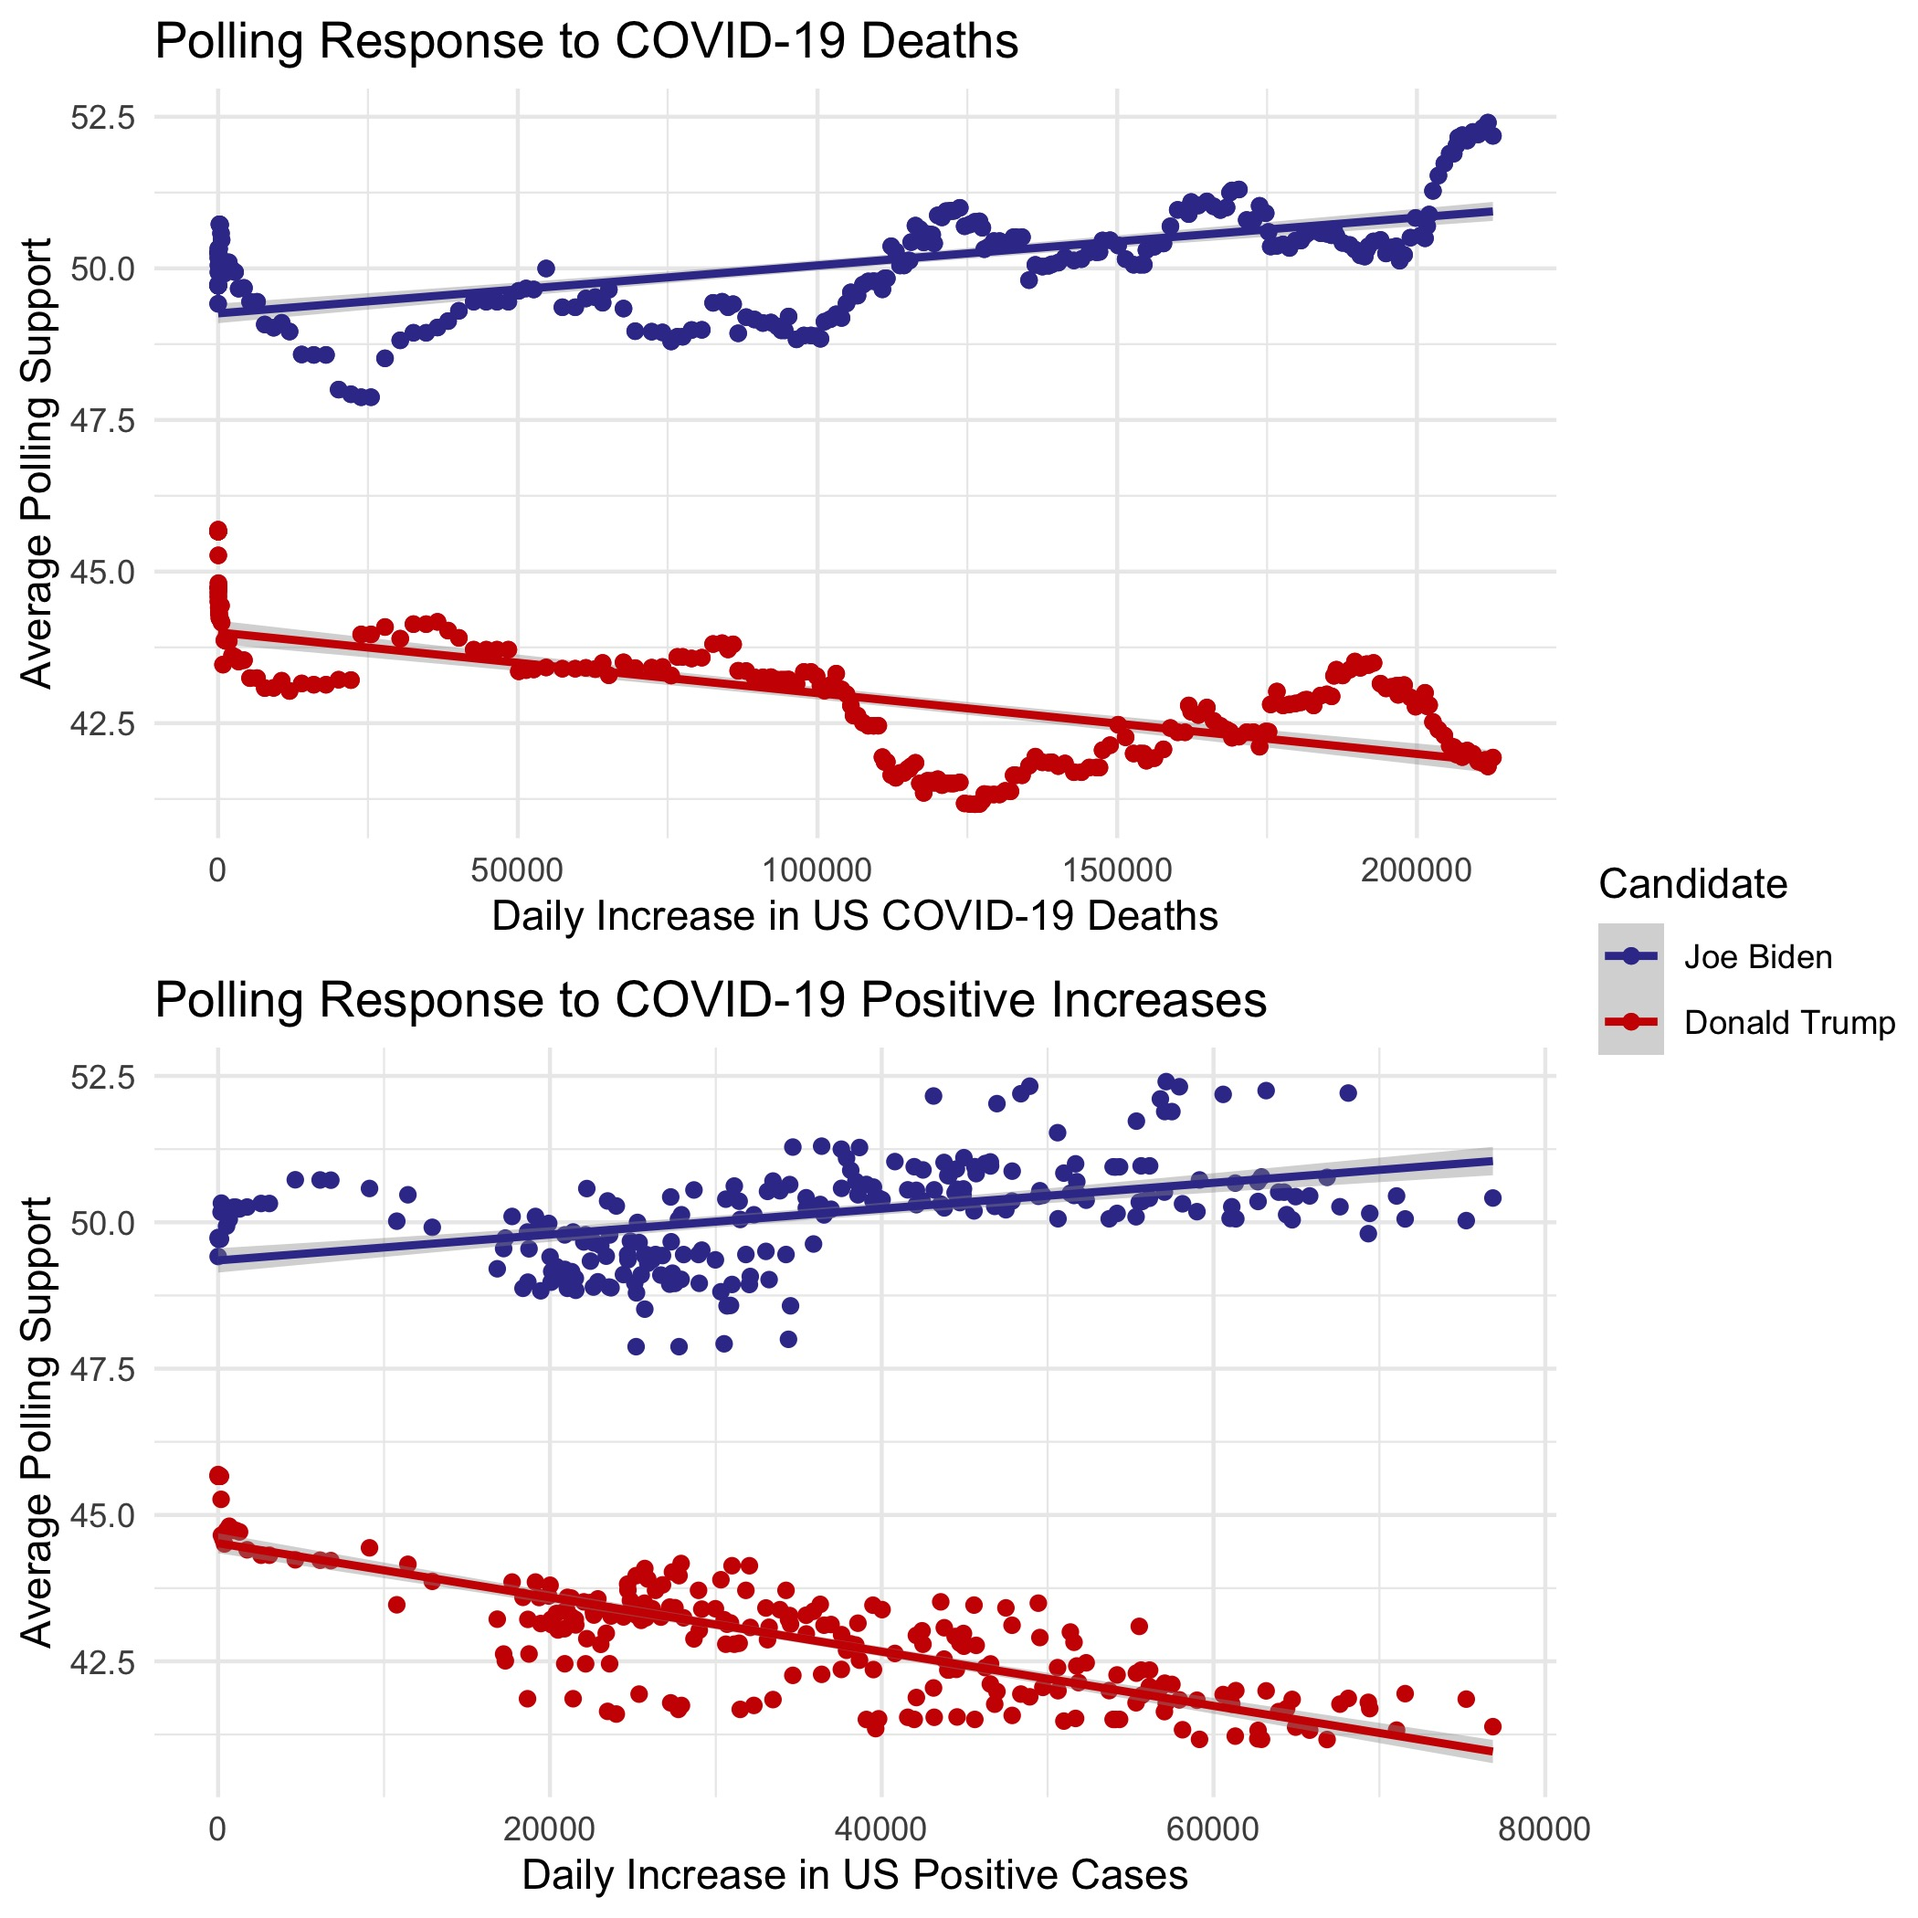
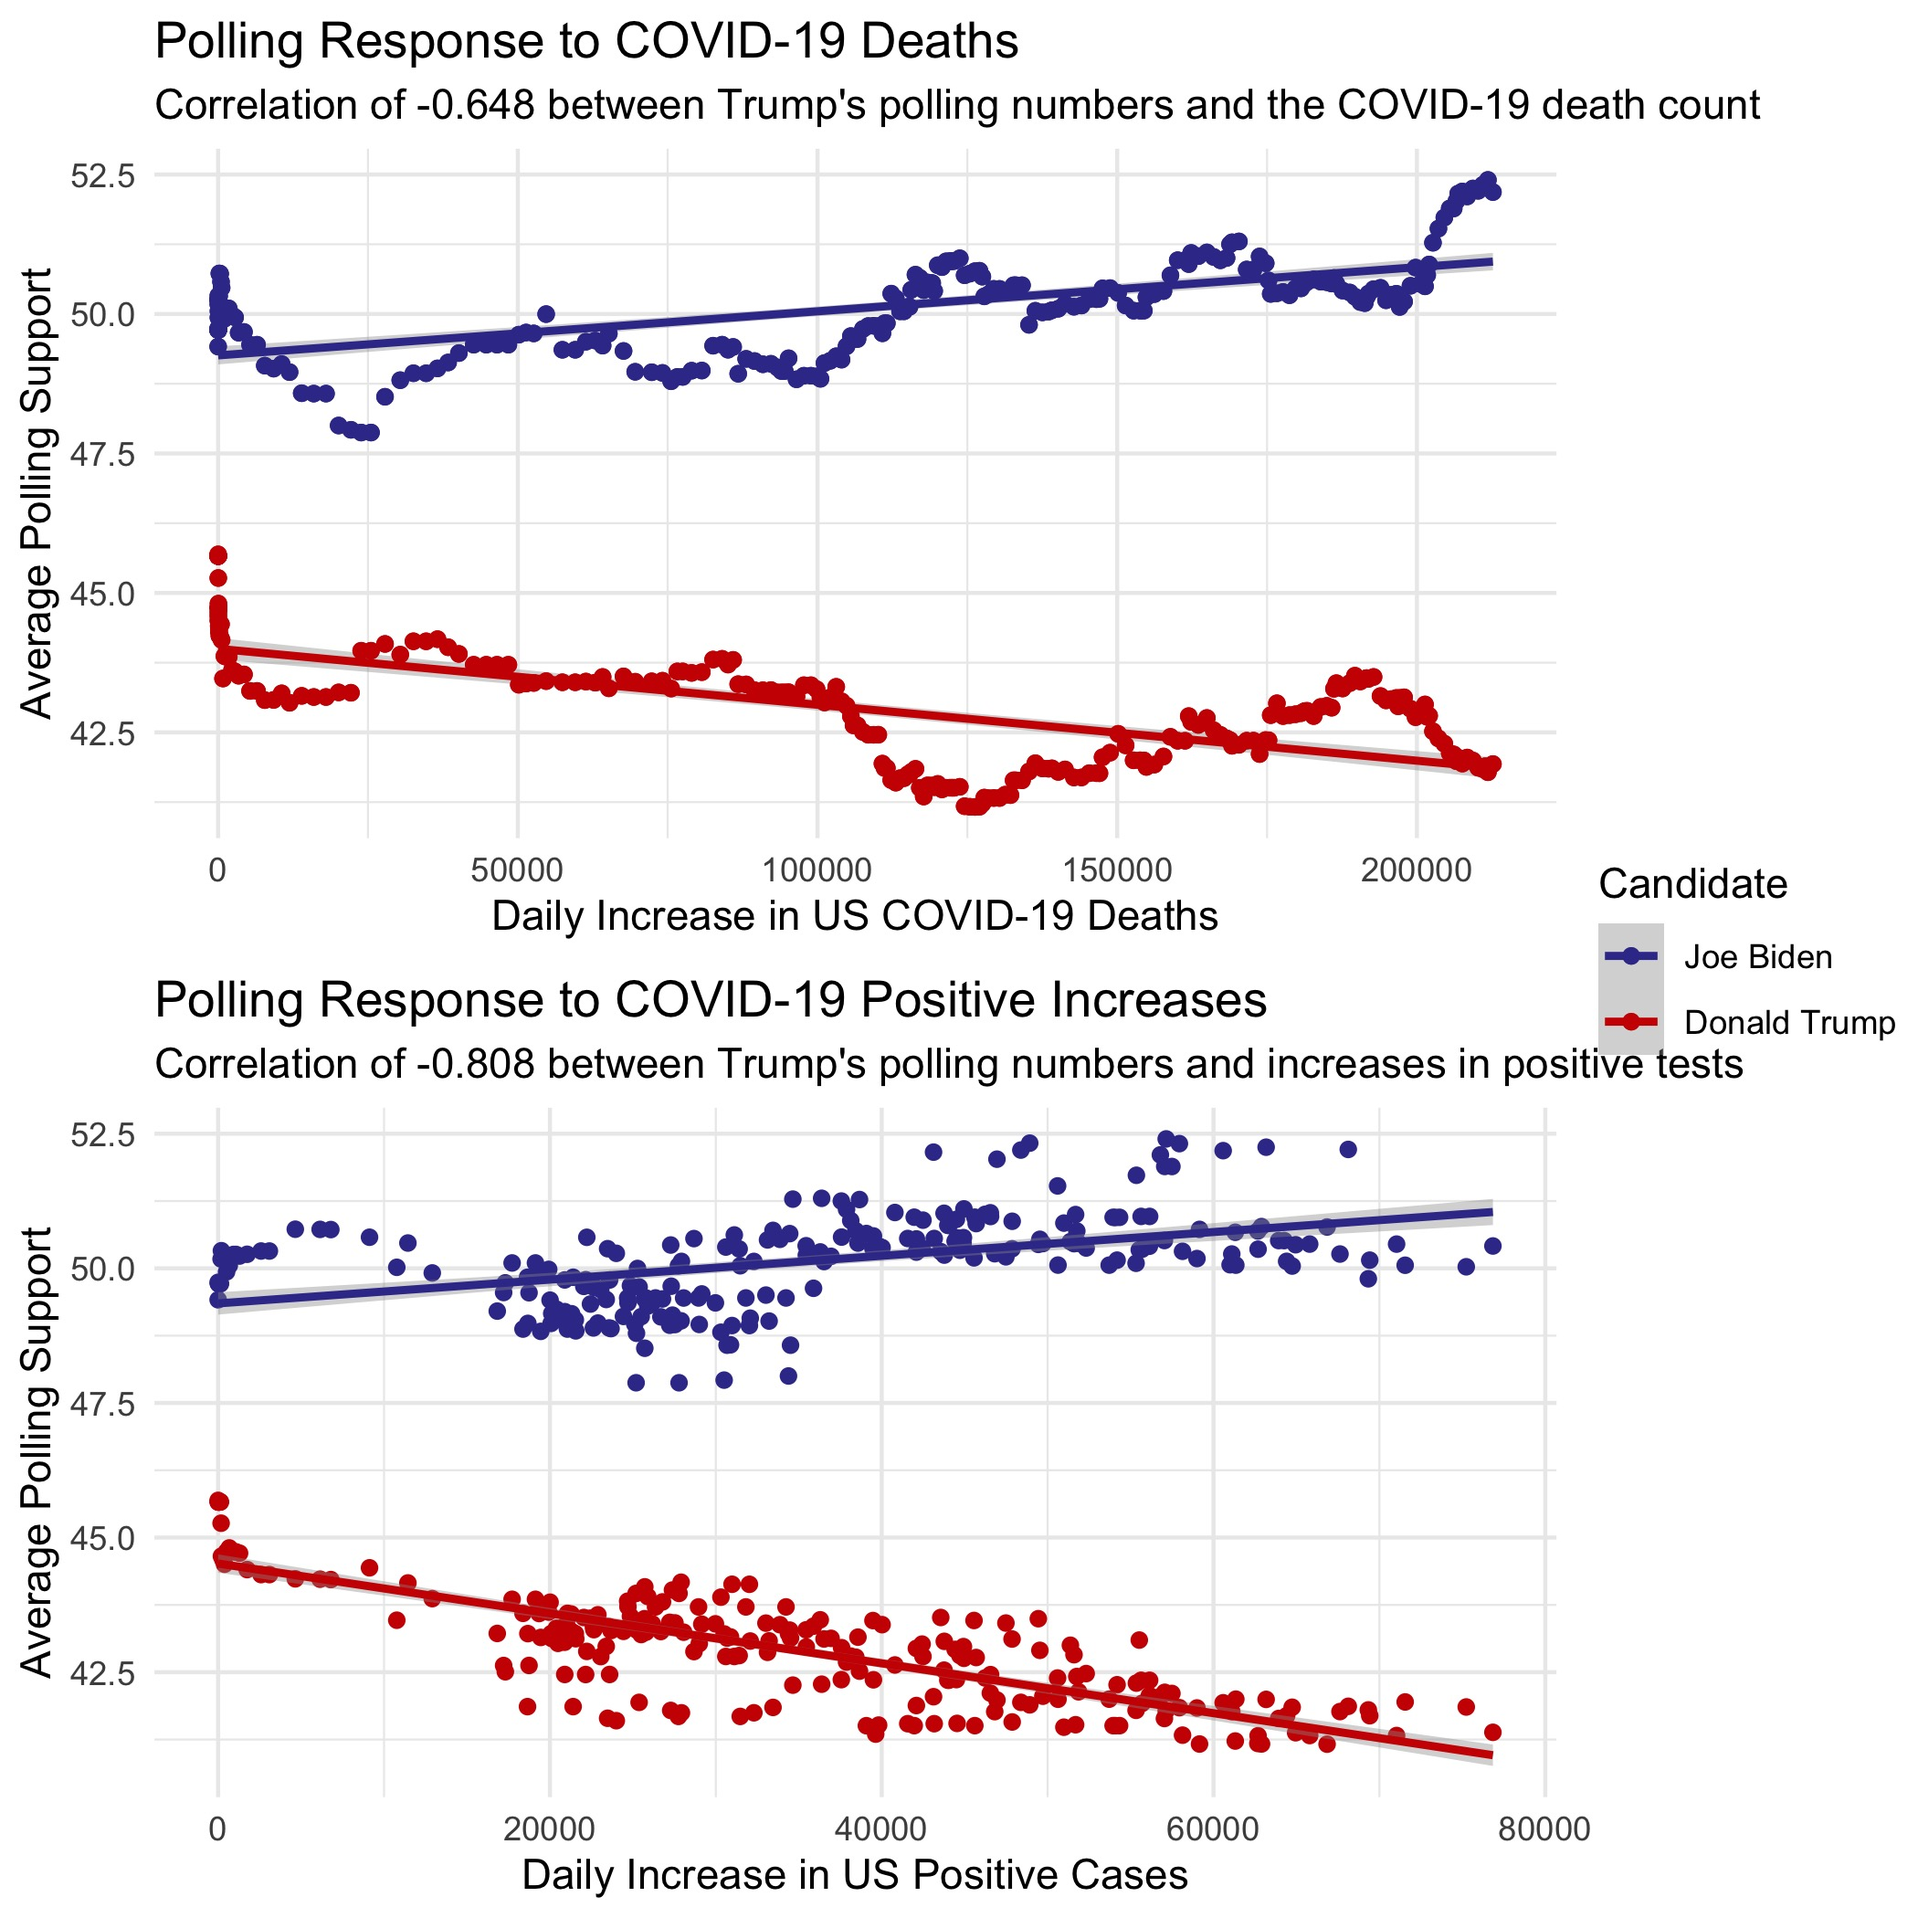
made covid correlation graphs nicer, added subtitles in lieu of the table with correlations that I removed

diff --git a/posts/shocks.md b/posts/shocks.md
@@ -12,11 +12,6 @@ It certainly sounds interesting to think that shark attacks[^achen] led to Woodr
 
 The [economic numbers](economy.md) of 2020 reflect the damage of COVID; incorporating economic data into prediction models picks up on some of the 2020 shocks. However, voters' emotional responses to certain events of 2020 may exist independent of economic circumstances. In this situation, polls should pick up any sort of non-economic reaction by the public. Examining COVID-19 metrics, for example, shows that deaths and positive test counts have fairly strong, negative correlations with Donald Trump's approval ratings:[^metrics]
 
-
-|              |    Death Count    |   Positive Results |Increase in Positive Results|
-|--------------|-------------------|-------------------|-----------------|            
-|avg_support   |  -0.64782421      |-0.51258921       |     -0.8083311 |
-
 ![covid](../figures/shocks/covid_polls.jpg)
 
 Not surprisingly, public opinion about Donald Trump's handling of the COVID-19 crisis has a moderately strong, positive correlation with his overall polling numbers and the inverse if true for Biden's poll numbers and Trump's COVID approval:
@@ -41,7 +36,7 @@ I maintained the underlying binomial logistic model and varied the turnout as I 
 | Biden     | 350[^DC]        | 0.528                  |
 | Trump     | 214             | 0.423                  |
 
-The above map shows the win margin and displays how close each race is in each state, but [this map](../figures/shocks/winner_map.jpg) clearly shows the predicted winner for each state and [this table](../figures/shocks/state_pv_table.html) shows the two-party popular vote predictions for each state.
+The above map shows the win margin and displays how close each race is in each state, but [this map](../figures/shocks/winner_map.jpg) clearly displays the predicted winner for each state and [this table](../figures/shocks/state_pv_table.html) shows the predicted two-party popular votes for each state.
 
 ### Looking Ahead
 
